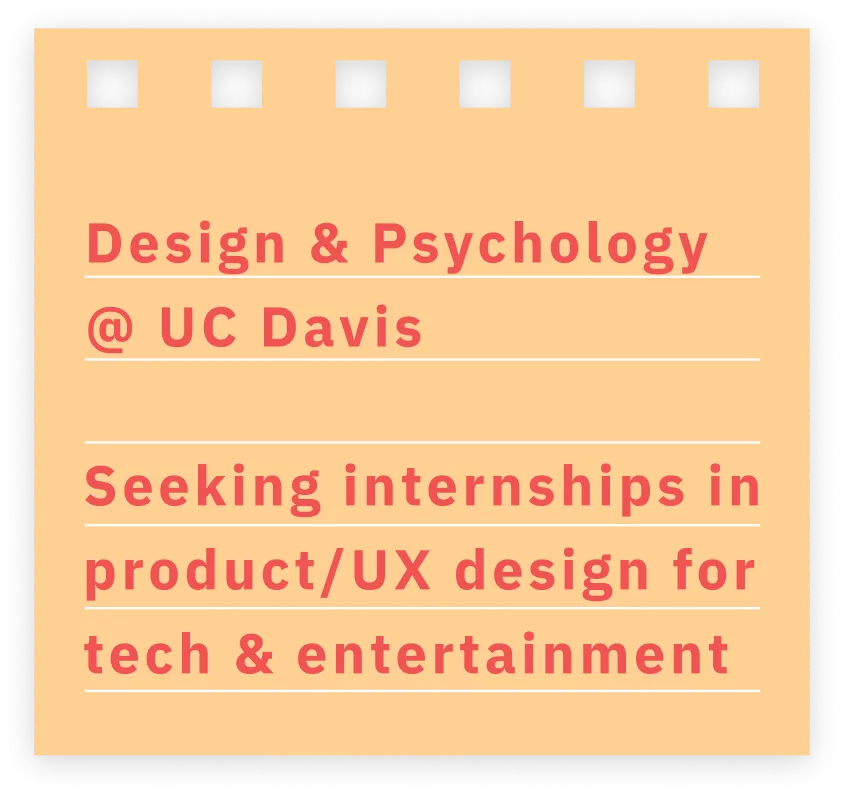
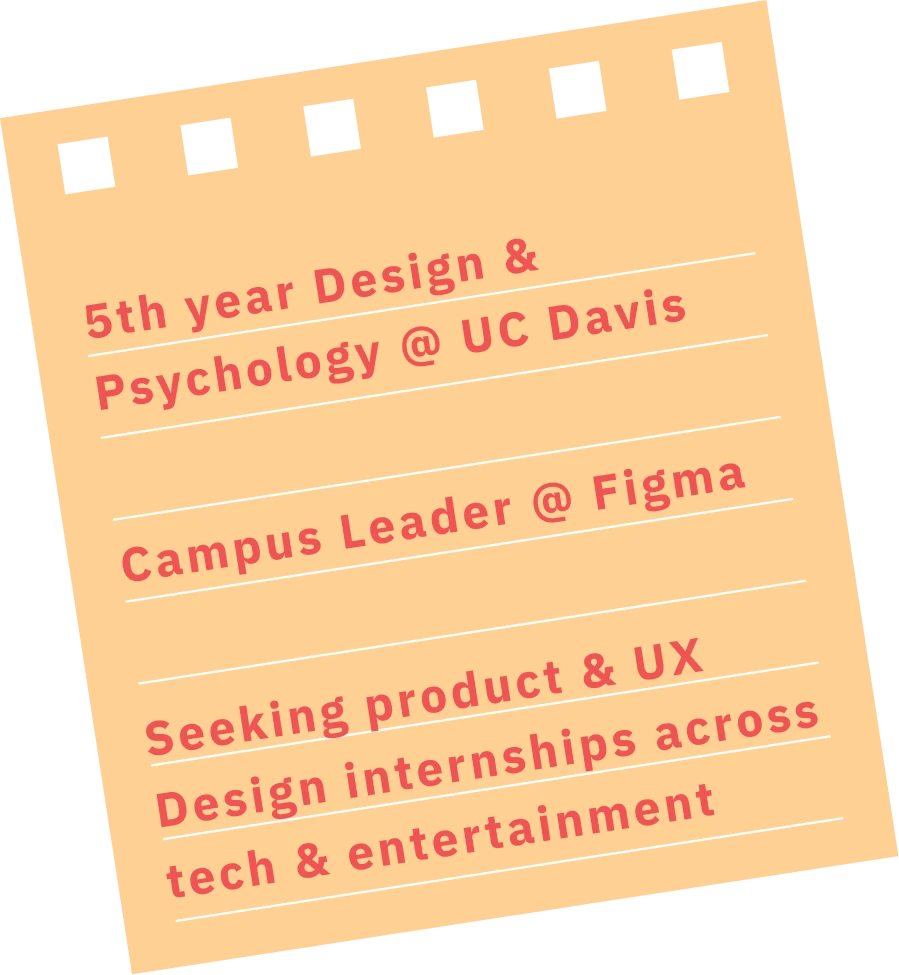
Swap hero sticky note, update title copy, fix marquee clearance
- New sticky-note.webp (PNG source, converted -- SVG was considered
  but user opted for the PNG), taller aspect ratio (1.085 vs 0.943),
  new copy: 5th year Design & Psychology @ UC Davis / Campus Leader @
  Figma / Seeking product & UX Design internships across tech &
  entertainment. Alt text updated to match.
- Hero title: 'Product Designer & UX researcher who designs
  behavioral and interactive web experiences grounded in systems
  thinking and user research', bolding 'behavioral and interactive
  web experiences' and 'systems thinking and user research' in
  #3d3d3d, mirroring the prior two-clause bold pattern (not
  explicitly specified this time, so inferred from precedent -- flag
  if a different split was wanted).
- Marquee ('blue strip') given +24px extra top margin. The taller
  sticky note pushed its bottom edge down; tested the gap to the
  marquee across viewport sizes and found it shrinks as viewport
  height grows (hero's cqw-scaled container keeps growing with vh
  until it hits its 1200px cap around vh~1241, while the marquee's
  vh-based margin keeps scaling independently) -- worst case was
  ~2.7px clearance, uncomfortably close to real overlap under
  cross-browser rounding. The extra flat buffer keeps a real margin
  (~27px) even in that worst case, per user's go-ahead to shift the
  strip down if needed.

diff --git a/src/components/HeroVisuals.tsx b/src/components/HeroVisuals.tsx
@@ -284,11 +284,9 @@ export default function HeroVisuals() {
           <div style={{ position: "absolute", left: "5.74%", top: "8.94%", width: "87.53%", height: "80.03%", boxSizing: "border-box", display: "flex", flexDirection: "column", padding: "5% 5.5% 3.5%" }}>
             <div style={{ flex: 1, display: "flex", alignItems: "center", justifyContent: "center" }}>
               <RevealText tag="p" trigger="load" variant="words" stagger={0.03} style={{ margin: 0, fontFamily: "var(--font-geist)", fontSize: "3.55cqw", lineHeight: 1.5, fontWeight: 300, color: "#1f2227", textAlign: "left" }}>
-                Product Designer specializing in{" "}
-                <span style={{ fontWeight: 700, color: "#3d3d3d" }}>behavioral and interaction design</span> for{" "}
-                <span style={{ fontWeight: 700, color: "#3d3d3d" }}>mobile and web tools</span> through{" "}
-                <span style={{ fontWeight: 700, color: "#3d3d3d" }}>systems thinking</span> and{" "}
-                <span style={{ fontWeight: 700, color: "#3d3d3d" }}>UX research</span>
+                Product Designer &amp; UX researcher who designs{" "}
+                <span style={{ fontWeight: 700, color: "#3d3d3d" }}>behavioral and interactive web experiences</span> grounded in{" "}
+                <span style={{ fontWeight: 700, color: "#3d3d3d" }}>systems thinking and user research</span>
               </RevealText>
             </div>
             <RevealText tag="p" trigger="load" variant="words" stagger={0.05} style={{ margin: 0, fontFamily: "var(--font-ibm-plex-sans)", fontSize: "2.1cqw", lineHeight: 1.4, fontWeight: 600, letterSpacing: ".02em", color: "#2c3036", textAlign: "center" }}>
@@ -309,7 +307,7 @@ export default function HeroVisuals() {
         <img
           ref={stickyRef}
           src="/assets/sticky-note.webp"
-          alt="Design & Psychology @ UC Davis — seeking internships in product/UX design for tech & entertainment"
+          alt="5th year Design & Psychology @ UC Davis — Campus Leader @ Figma — seeking product & UX design internships across tech & entertainment"
           draggable={false}
           style={{
             position: "absolute",

diff --git a/src/components/Marquee.tsx b/src/components/Marquee.tsx
@@ -9,7 +9,14 @@ export default function Marquee() {
         width: "100%",
         overflow: "hidden",
         background: "#66bef0",
-        margin: "clamp(12px,3vh,44px) 0 0",
+        // Extra flat +24px on top of the existing responsive gap: the
+        // taller sticky-note art now sometimes leaves only a couple px of
+        // clearance above this strip at large viewport heights (hero
+        // height caps out around vh~1241px while this margin keeps
+        // scaling with vh, so the two nearly meet there) -- this keeps a
+        // real buffer in that worst case without changing the normal-case
+        // spacing much.
+        margin: "calc(24px + clamp(12px,3vh,44px)) 0 0",
       }}
     >
       <div
